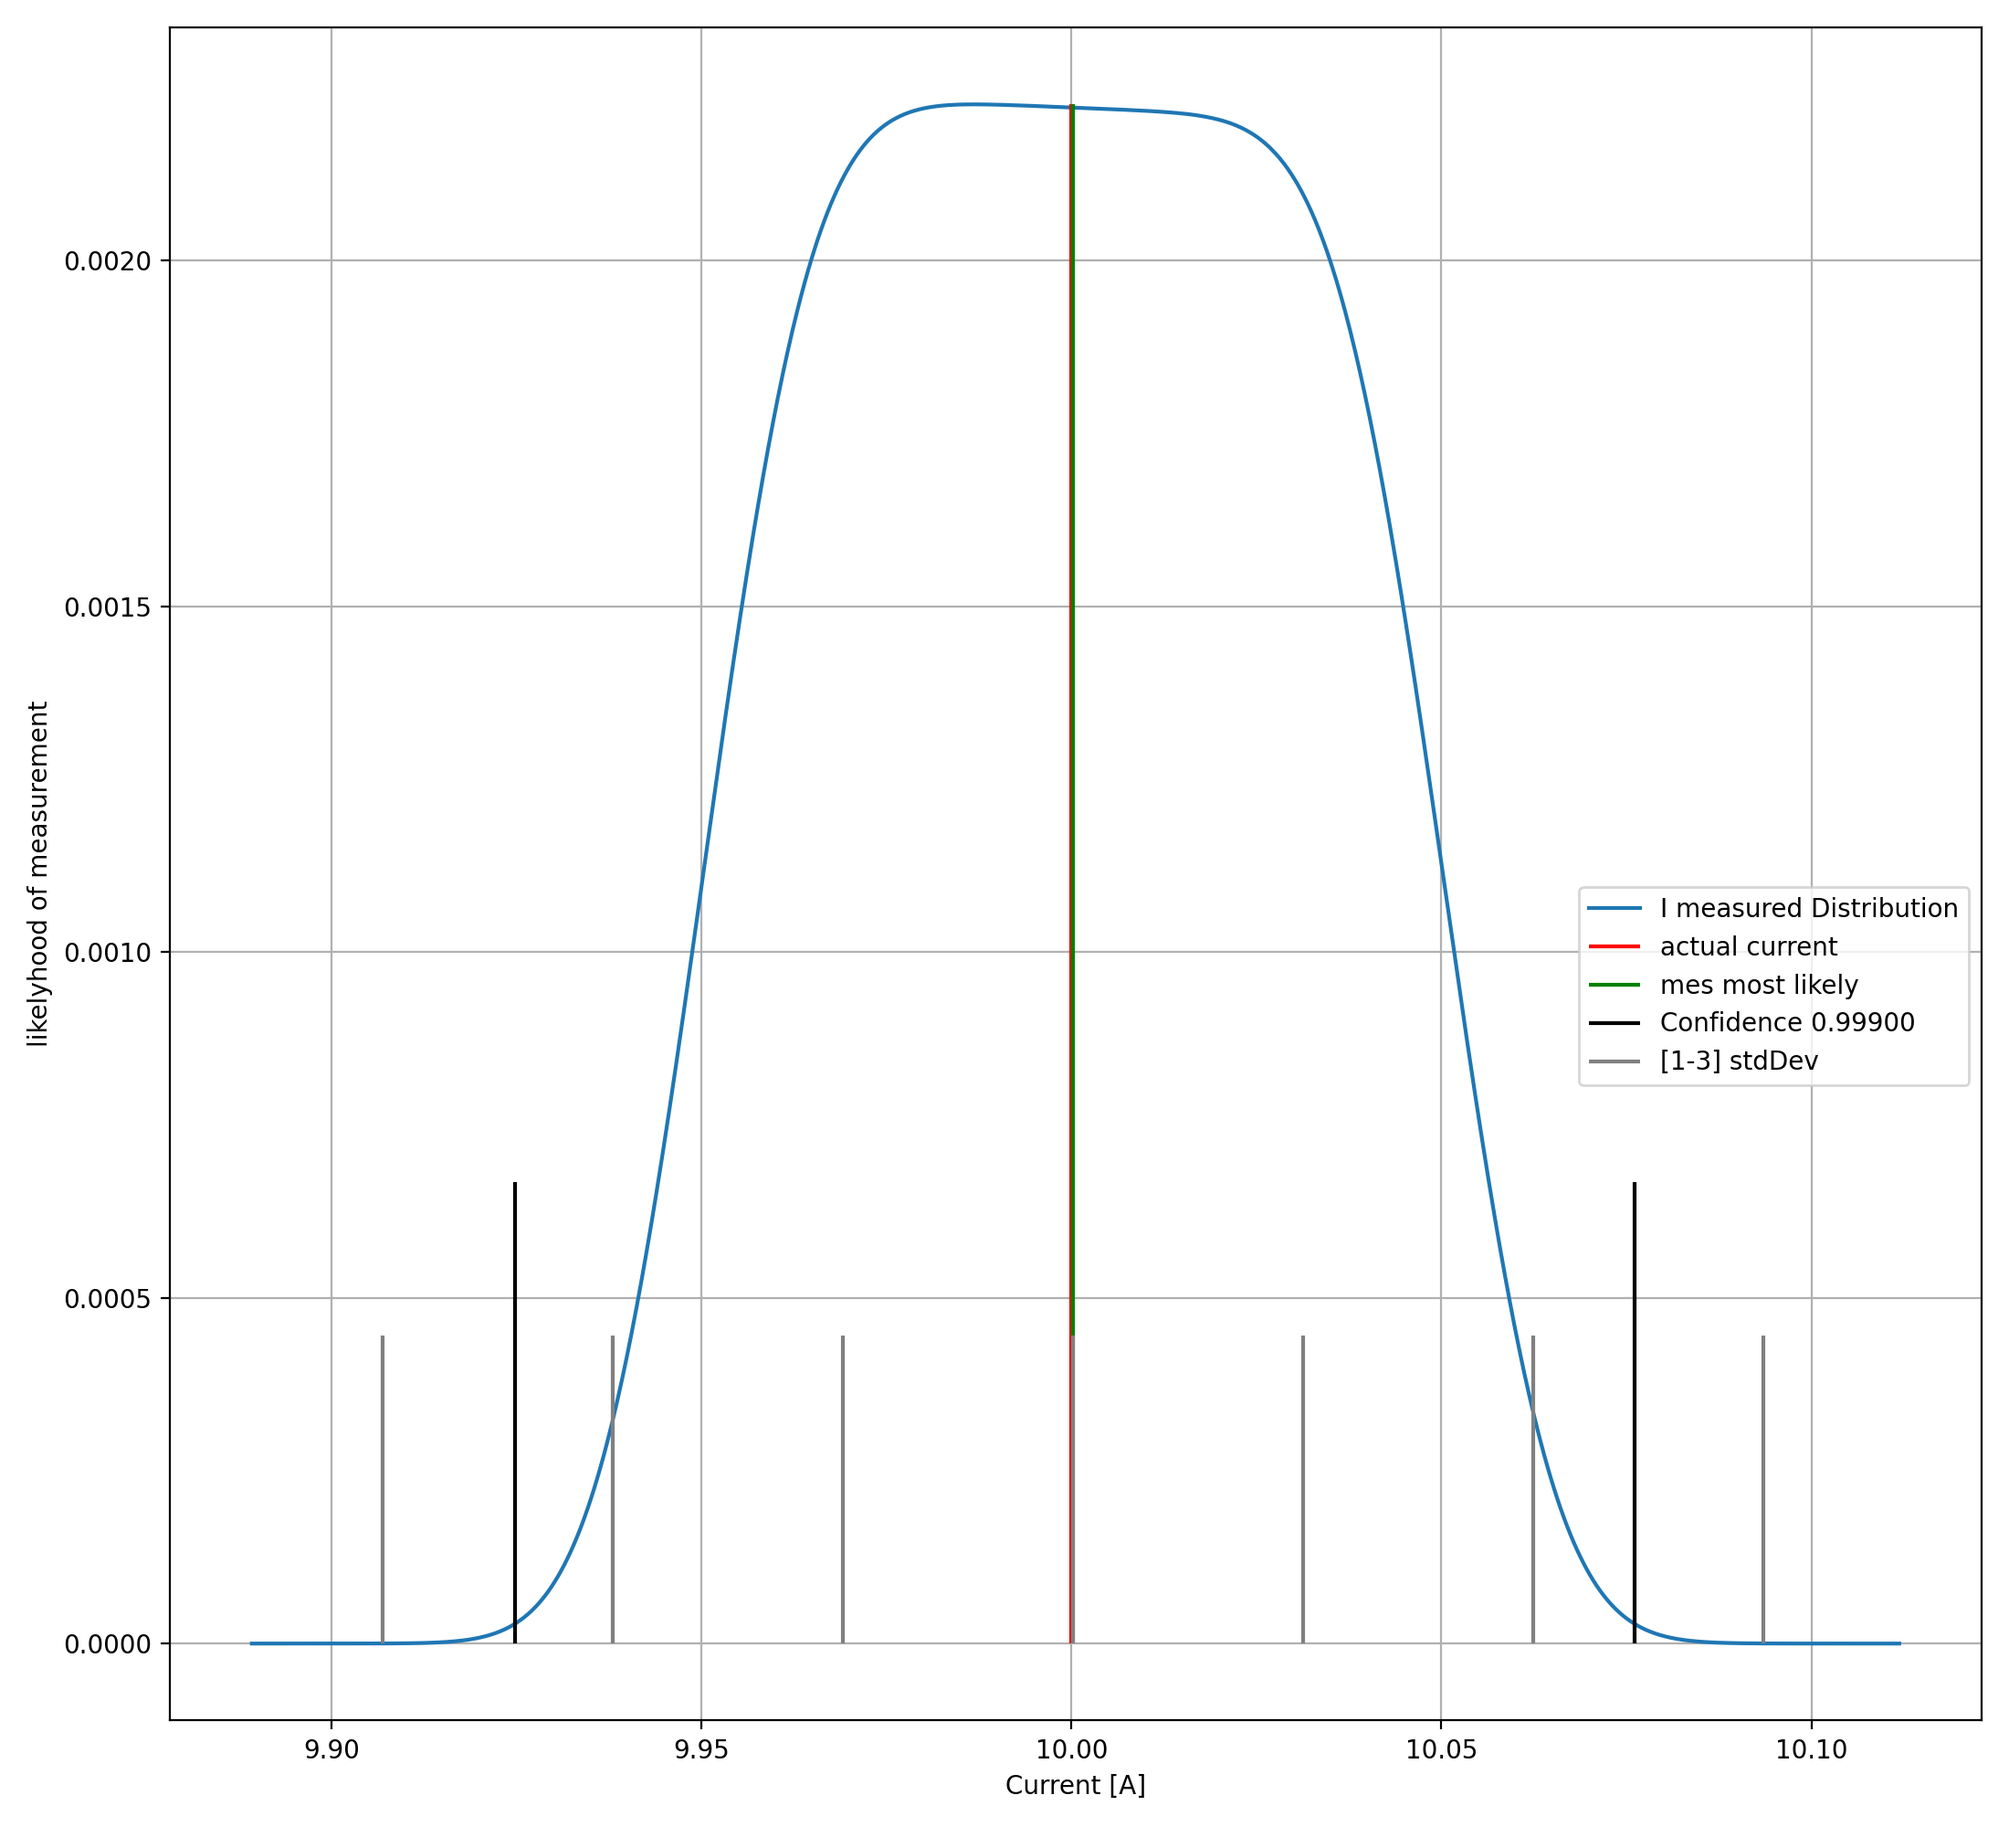
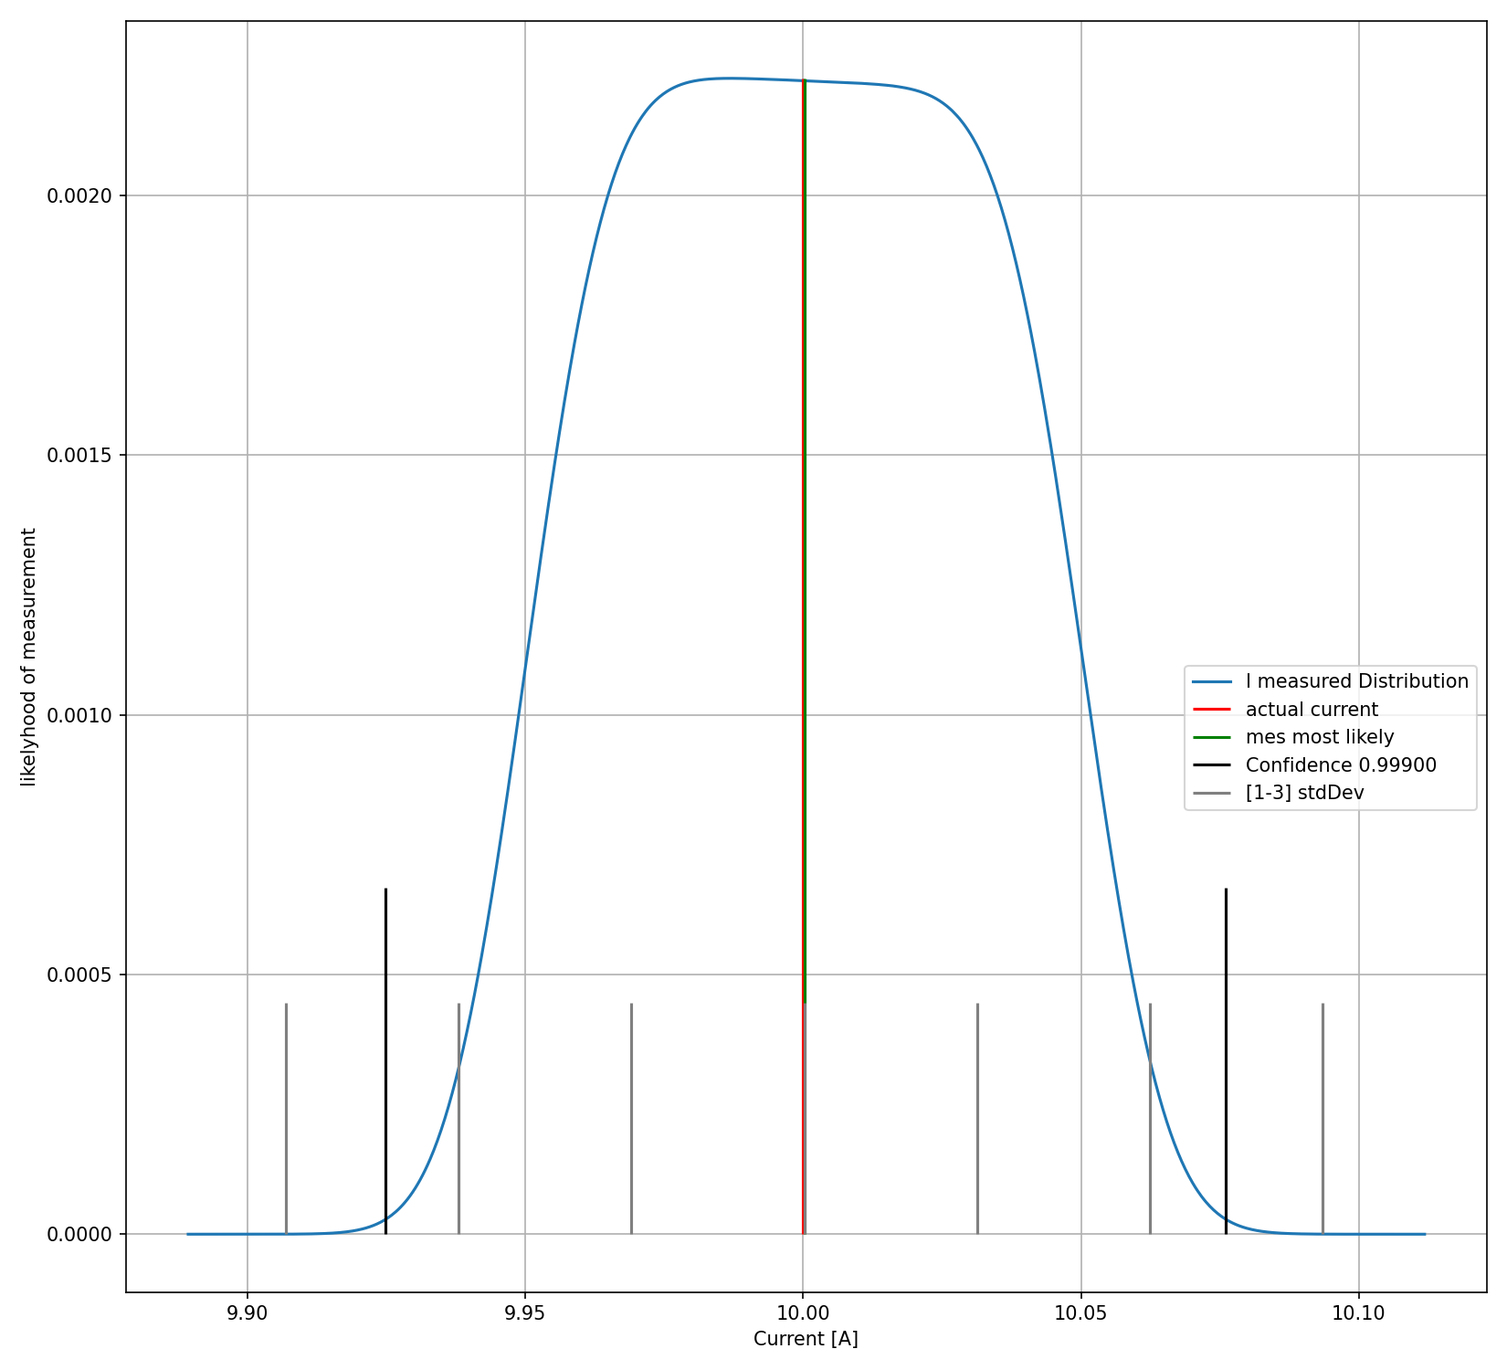
md for readme

diff --git a/uncertainDistribution.py b/uncertainDistribution.py
@@ -68,6 +68,7 @@ License: LGPL-3.0-or-later
 """
 import numpy as np
 import cppyy
+import copy
 
 try:
     cppyy.add_include_path('./include')
@@ -218,9 +219,17 @@ class unDist:
         return self.__add__(x)
     
     def __sub__(self, x):
-        # operater that is called if python sees code "x-unDist" 
-        # - is assumed commutative
+        # operater that is called if python sees code "unDist-x" 
         return self.__add__(-x)
+    
+    def __rsub__(self, x):
+        # operater that is called if python sees code "x-unDist" 
+        print("rsub")
+        nd = unDist()
+        nd.centers = -copy.copy(self.centers)
+        nd.weights = copy.copy(self.weights)
+        
+        return nd.__add__(-x)
     
     
                 

diff --git a/examples/example_pyranometer.py b/examples/example_pyranometer.py
@@ -13,9 +13,13 @@ Created on Thu Jan  8 15:31:01 2026
 
 
 import matplotlib.pyplot as plt
-
-from uncertainDistribution import unDist as undi
 import numpy as np
+
+import sys
+sys.path.append('../') #the uncertainDistribution lib is in the folder above
+from uncertainDistribution import unDist as undi
+
+plotDir = "./plots/"
 
 zeroOffsetBPlusMinus = 3
 sensitivityPercent = 1.5/3
@@ -100,4 +104,4 @@ plt.legend()
 plt.grid()
 plt.xlim(800,1000)
 plt.xlabel("G [W/m^2]")
-plt.savefig("example_pyranometer.png")
+plt.savefig(plotDir+"example_pyranometer.png")

diff --git a/examples/example_currentMeasurement.py b/examples/example_currentMeasurement.py
@@ -82,7 +82,7 @@ print("General Bias: %.5f A  = %.4f%% of nominal"%(mesMean-actualCurrent, mesMea
 and now lets plot how the distribution looks
 
 """
-plt.figure(figsize=(11,10),dpi=200)
+plt.figure(figsize=(11,10),dpi=150)
 
 ymax =  max(I.weights)
 plt.plot(I.centers,I.weights, label="I measured Distribution")
